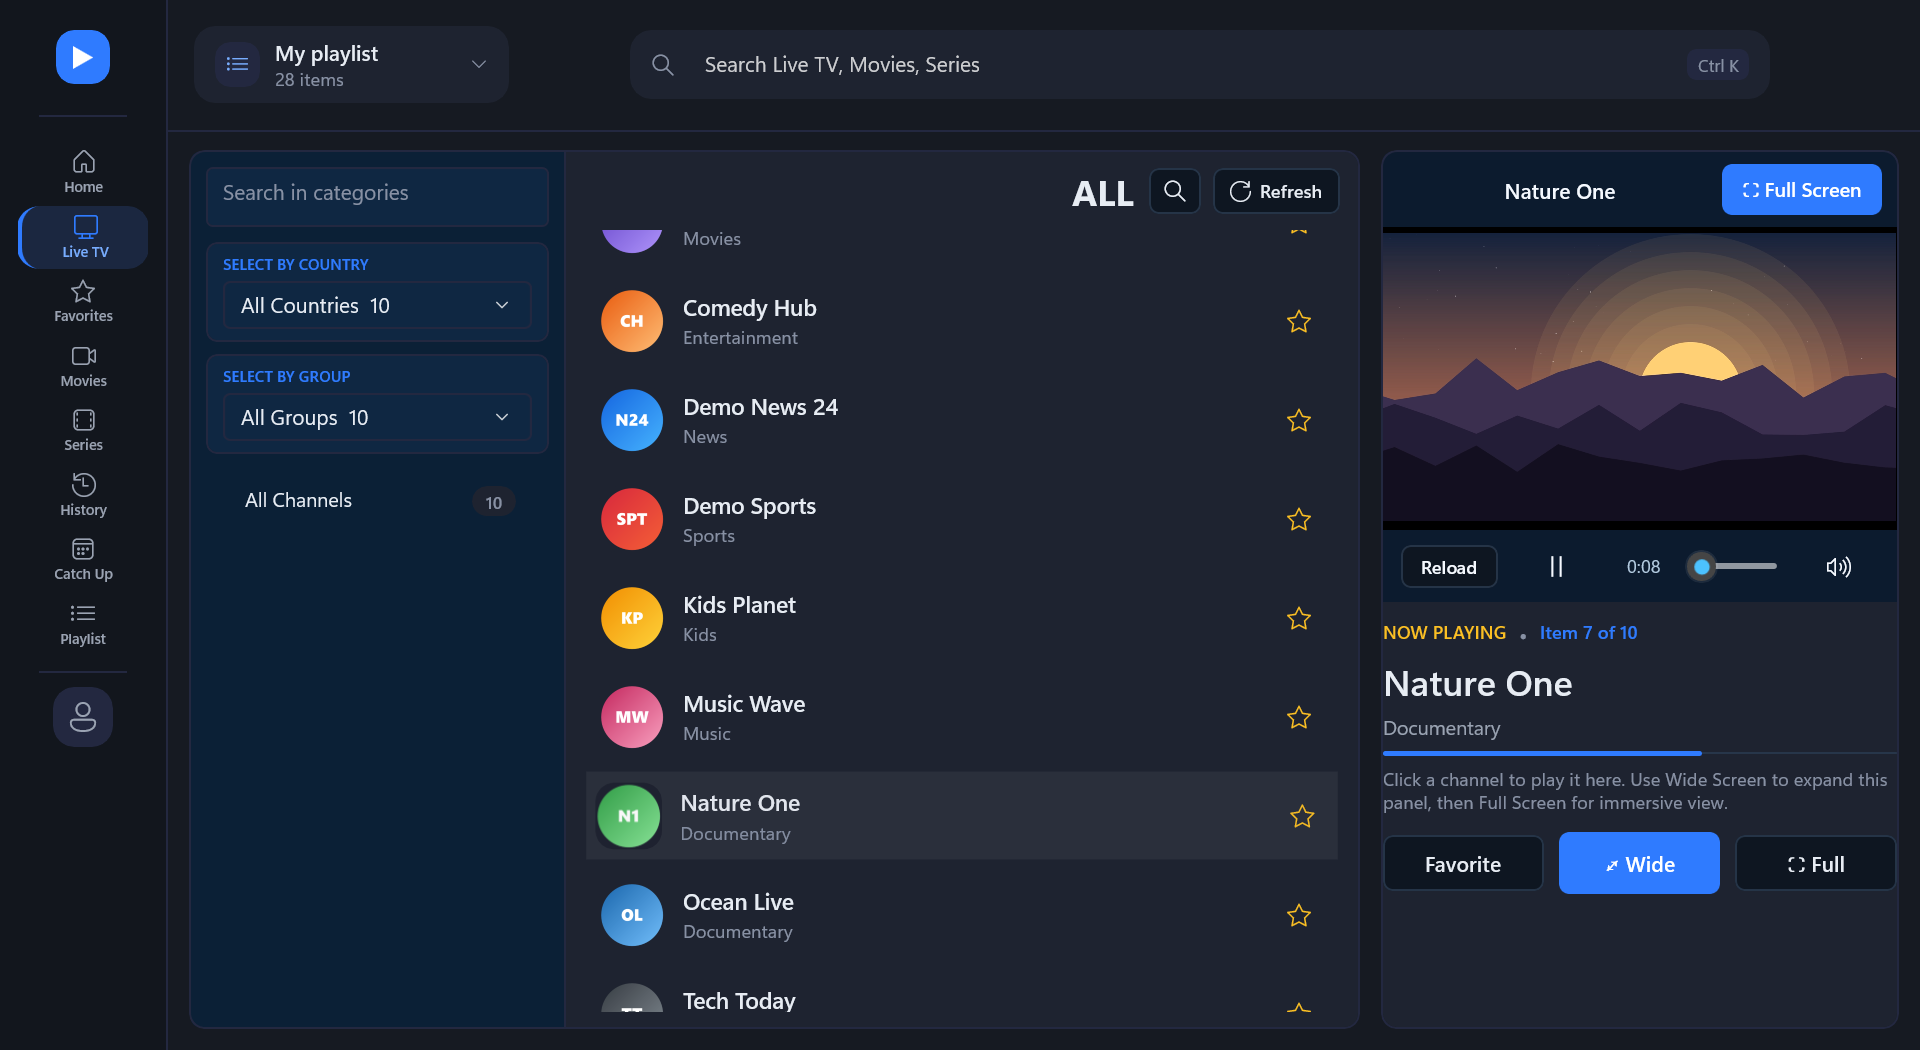
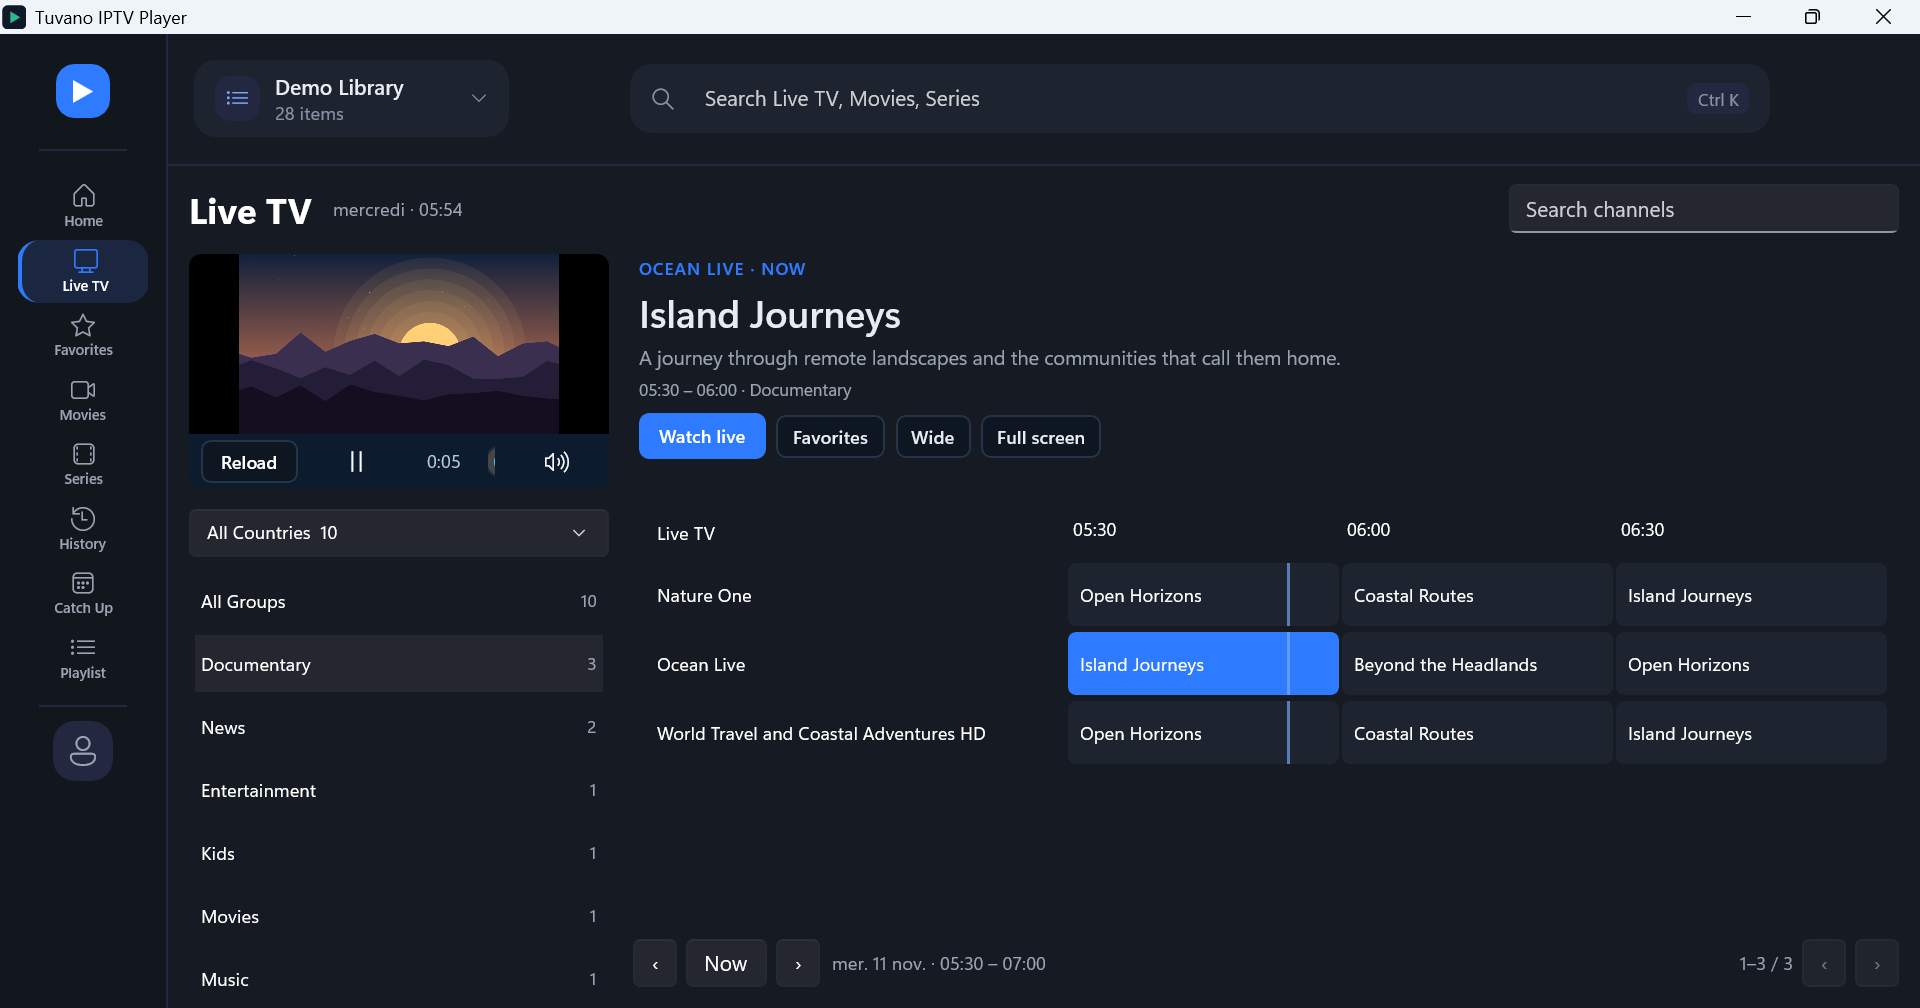
Add files via upload

diff --git a/index.html b/index.html
@@ -60,9 +60,9 @@
 
   <h2>What it does</h2>
   <div class="grid">
-    <div class="card"><h3>Live TV</h3><p>Channels grouped by category, with search, quick switching, wide and full-screen viewing.</p></div>
+    <div class="card"><h3>Live TV</h3><p>Browse channels and programme times in a guide with readable channel names. Select a channel to play it, then switch to Wide or Full Screen.</p></div>
     <div class="card"><h3>Movies and Series</h3><p>Poster grid with categories and sorting, seasons and episodes, and resume from where you stopped.</p></div>
-    <div class="card"><h3>Catch Up</h3><p>Replay past programmes on channels where your provider offers it.</p></div>
+    <div class="card"><h3>Catch Up</h3><p>Browse past programmes in a timeline and replay them on supported channels.</p></div>
     <div class="card"><h3>Built for real connections</h3><p>Picks the quality your connection can carry and retries automatically when a stream drops.</p></div>
     <div class="card"><h3>Plays what IPTV sends</h3><p>HEVC (H.265), MKV, AC3 and DTS, through the libVLC media engine.</p></div>
     <div class="card"><h3>Private by design</h3><p>No account, no ads, no analytics. Playlists and logins stay on your PC; logins are encrypted by Windows.</p></div>
@@ -70,16 +70,28 @@
 
   <h2>A look at the app</h2>
   <figure>
-    <img src="live-tv.png" alt="Tuvano playing a channel next to the channel list" />
-    <figcaption>Live TV: categories on the left, channels in the middle, the player on the right.</figcaption>
+    <img src="home.png" alt="Tuvano Home with discovery, recent viewing and Live TV cards" />
+    <figcaption>Discover titles and return to recent viewing from Home.</figcaption>
+  </figure>
+  <figure>
+    <img src="live-tv.png" alt="Live TV programme guide with channel categories, time slots and video preview" />
+    <figcaption>Browse the Live TV guide while a channel plays in the preview.</figcaption>
+  </figure>
+  <figure>
+    <img src="catch-up.png" alt="Catch Up timeline with past programmes arranged by channel and time" loading="lazy" />
+    <figcaption>Find past programmes on channels that offer replay.</figcaption>
   </figure>
   <figure>
     <img src="movies.png" alt="Tuvano showing a grid of film posters" />
     <figcaption>Movies, with categories and sorting.</figcaption>
   </figure>
   <figure>
-    <img src="player.png" alt="Tuvano playing a film full width" />
-    <figcaption>The player, with seek bar, volume and full screen.</figcaption>
+    <img src="series.png" alt="Tuvano Series library showing a grid of series posters" loading="lazy" />
+    <figcaption>Browse series from your saved playlists.</figcaption>
+  </figure>
+  <figure>
+    <img src="player.png" alt="A live channel playing in Wide mode with playback controls below" loading="lazy" />
+    <figcaption>Expand live playback with Wide or Full Screen.</figcaption>
   </figure>
   <p style="color:#9fb0c8;font-size:.9rem">The titles, posters, channel logos and video in these pictures are demo
   content made for the screenshots. Tuvano ships with no channels or films of its own.</p>

diff --git a/privacy-policy.html b/privacy-policy.html
@@ -18,7 +18,7 @@
 </head>
 <body>
   <h1>Privacy Policy — Tuvano</h1>
-  <p class="updated">Last updated: 17 September 2026</p>
+  <p class="updated">Last updated: 11 November 2026</p>
 
   <p>Tuvano (“the app”) is a media <strong>player</strong> for Windows, published by Scorey (Chongwan Wanlo
   Conrad). It does not provide any channels, playlists, movies, series, or program-guide content — you supply
@@ -46,7 +46,7 @@
         and the license key you activate), kept in the Windows registry of this PC. License keys are checked
         offline.</li>
   </ul>
-  <p>All of the above is kept on your PC. None of it is sent to the developer or any third party.</p>
+  <p>The publisher does not receive these records. When you access a source, the app sends the requests and credentials needed to connect to that source, as described below.</p>
 
   <h2>Purchases</h2>
   <p>In the Microsoft Store edition, the purchase and the free trial are handled entirely by the Microsoft Store
@@ -55,7 +55,9 @@
 
   <h2>Network connections</h2>
   <p>The app makes network requests to the servers named in the playlists and provider accounts you add:
-  to play streams, show channel logos and posters, and read your provider’s program guide. Your credentials
+  to play streams, show channel logos and posters, read program guides and replay past programmes. The downloadable
+  edition also connects to your sources when you choose to record or save media. Saved files are stored in the local
+  folder you select. Your credentials
   are sent solely to <em>your own provider</em>, exactly as required to play the content you are entitled to.</p>
   <p><strong>Update check (downloadable edition only).</strong> When the publisher provides an update address,
   the downloadable edition checks for a newer version by requesting a small file from that address a few
